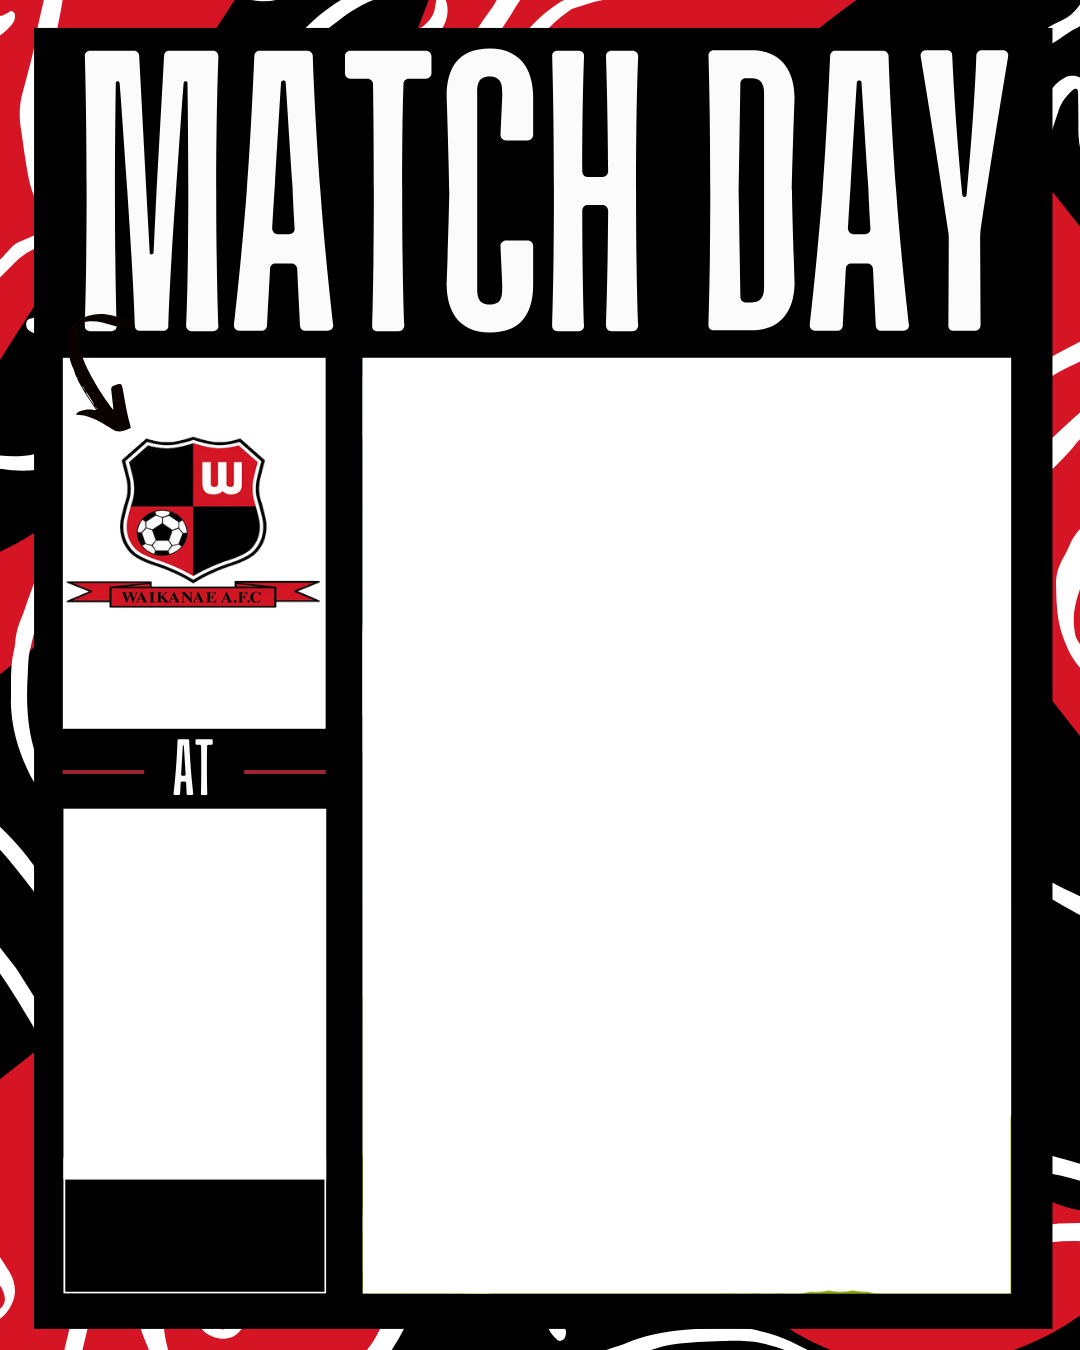
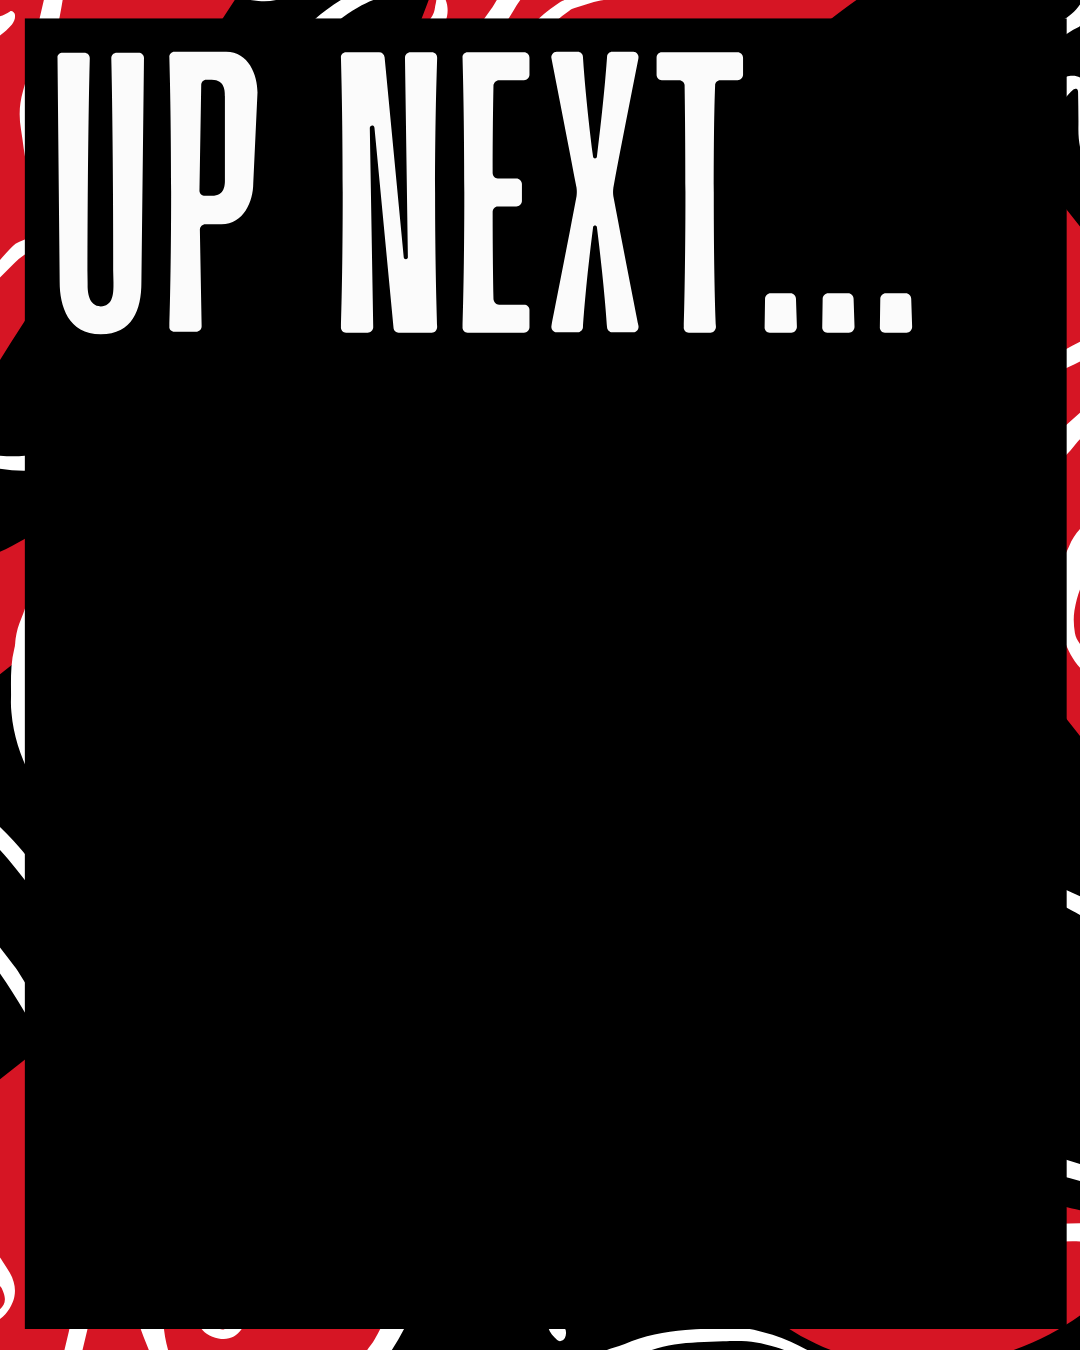
Started development on Up Next

diff --git a/resources/upnextextras/script.js b/resources/upnextextras/script.js
@@ -1,83 +1,20 @@
-const templateImg = "./matchdayextras/template.png";
+const templateImg = "./upnextextras/template.png";
+const pointImg = "./upnextextras/point.png";
 const actionX = 660;
 const actionY = 940;
 var focusX,focusY;
 
-function loadActionImage() {
-        var input, file, fr, img;
-
-        if (typeof window.FileReader !== 'function') {
-            write("The file API isn't supported on this browser yet.");
-            return;
-        }
-
-        input = document.getElementById('imgfile');
-        if (!input) {
-            write("Um, couldn't find the imgfile element.");
-        }
-        else if (!input.files) {
-            write("This browser doesn't seem to support the `files` property of file inputs.");
-        }
-        else if (!input.files[0]) {
-            write("Please select a file before clicking 'Load'");
-        }
-        else {
-            file = input.files[0];
-            fr = new FileReader();
-            fr.onload = createImage;
-            fr.readAsDataURL(file);
-        }
-
-        function createImage() {
-            img = new Image();
-            img.onload = imageLoaded;
-            img.src = fr.result;
-        }
-
-        function imageLoaded() {
-            var canvas = document.getElementById("preview")
-            canvas.width = img.width;
-            canvas.height = img.height;
-            var ctx = canvas.getContext("2d");
-            ctx.drawImage(img,0,0);
-        }
-
-        function write(msg) {
-            var p = document.createElement('p');
-            p.innerHTML = msg;
-            document.body.appendChild(p);
-        }
-}
-
-function setListener(){
-	const canvas = document.getElementById("preview")
-		canvas.addEventListener('mousedown', function(e) {
-		getCursorPosition(canvas, e)
-	})
-}
-
-function getCursorPosition(canvas, event) {
-    const rect = canvas.getBoundingClientRect();
-    focusX = event.clientX - rect.left;
-    focusY = event.clientY - rect.top;
-    console.log("x: " + focusX + " y: " + focusY);
-	var finalCanvas = document.getElementById('myCanvas'),
-	context = finalCanvas.getContext('2d');
-	context.drawImage(canvas, focusX-(actionX/2), focusY-(actionY/2),actionX,actionY,355,355,actionX,actionY);
-}
-
-function generateImage(home,away,crest,placetext,timetext){
+function generateImage(){
 	var canvas = document.getElementById('myCanvas'),
 	context = canvas.getContext('2d');
 	
 	//Prepare Images to load
 	let base_image = new Image();
-	let crest_image = new Image();
+	let point_image = new Image();
 	
 	base_image.src = templateImg;
-	
-	crest_image.src = "./clubicons/" + crest + ".png";
-	let images = [base_image, crest_image]
+	point_image.src = pointImg;
+	let images = [base_image, point_image]
 	
 	function imageIsLoaded(image) {
 	  return new Promise(resolve => {
@@ -89,23 +26,19 @@ function generateImage(home,away,crest,placetext,timetext){
 	Promise.all(images.map(imageIsLoaded)).then(() => {
 		//Draw Images
 		context.drawImage(base_image, 0, 0);
-		context.drawImage(crest_image, 70, 850);
 		
-		//Set Constants
-		context.textAlign = "center";
-		context.textBaseline = "top";
-			
-		//Draw Teams
-		context.font = '40px Oswald';
-		context.fillStyle = "#000000";
-		context.fillText(home, 195, 625);
-		context.fillText(away, 195, 1075);
+		context.fillStyle = "white";
+		context.fillRect(45,360,200,350);
+		context.fillRect(45,785,200,350);
+		context.strokeStyle = "white";
+		context.lineWidth = "2";
+		context.strokeRect(45,1175, 200,140);
 		
-		//Draw Time and Location
-		context.font = '40px Orbitron';
-		context.fillStyle = "#FFFFFF";
-		context.fillText(timetext, 195, 1195);
-		context.font = '20px Orbitron';
-		context.fillText(placetext, 195, 1245);
+		context.strokeStyle = "red";
+		context.moveTo(45, 747.5);
+		context.lineTo(245, 747.5);
+		context.stroke();
+		
+		context.drawImage(point_image, 900, 215);
 	});
 }

diff --git a/index.html b/index.html
@@ -25,11 +25,19 @@
 	  </div>
 
 	  <div class="mySlides fade">
-		<div class="numbertext">2 / 2</div>
+		<div class="numbertext">2 / 3</div>
 		<a href="./resources/scorebuilder.html">
 			<img src="./resources/slideshowexamples/score.png" style="width:100%">
 		</a>
 		<div class="text">Create a Scoreline Image</div>
+	  </div>
+	  
+	  <div class="mySlides fade">
+		<div class="numbertext">2 / 3</div>
+		<a href="./resources/upnext.html">
+			<img src="./resources/slideshowexamples/upnext.jpg" style="width:100%">
+		</a>
+		<div class="text">Create an Up Next Image</div>
 	  </div>
 
 	  <!-- Next and previous buttons -->
@@ -42,6 +50,7 @@
 	<div style="text-align:center">
 	  <span class="dot" onclick="currentSlide(1)"></span>
 	  <span class="dot" onclick="currentSlide(2)"></span>
+	  <span class="dot" onclick="currentSlide(3)"></span>
 	</div>
 
     </main>

diff --git a/resources/upnext.html b/resources/upnext.html
@@ -1,0 +1,23 @@
+<!DOCTYPE html>
+<html lang="en">
+  <head>
+    <meta charset="UTF-8">
+    <meta name="viewport" content="width=device-width, initial-scale=1.0">
+    <meta http-equiv="X-UA-Compatible" content="ie=edge">
+    <title>Waikanae Amazing Foto Creator</title>
+	<link rel="stylesheet" href="https://fonts.googleapis.com/css?family=Orbitron|Oswald">
+	<script src="./upnextextras/script.js"></script>
+  </head>
+  <body>
+    <main>
+	<div class="apply">	
+		<h1> Step 4.  Click here to apply the template: </h1><br>
+		<input id="clickMe" type="button" value="clickme" onclick="generateImage();" />
+	</div>
+	<br>
+	<h1> Step 5.  Right click save for your Match day result: </h1><br>
+	<canvas id="myCanvas" width="1080" height="1350" style="border:1px solid #000000;">
+	</canvas>
+    </main>
+  </body>
+</html>
